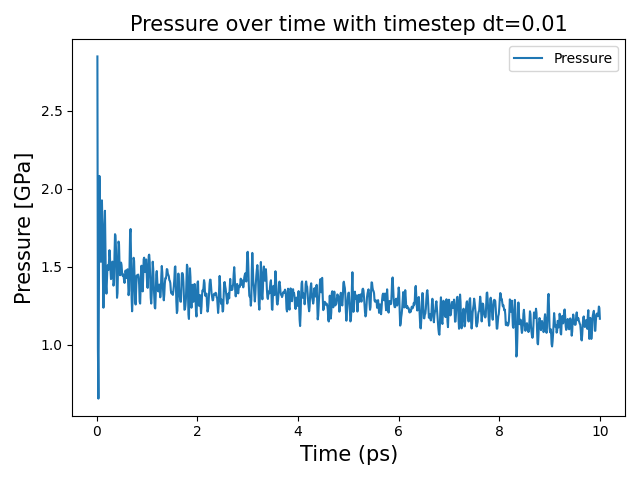
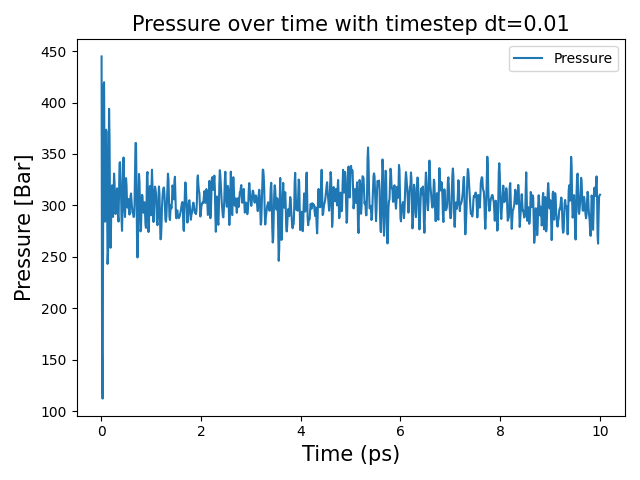
upd

diff --git a/H1/python/plot_energy.py b/H1/python/plot_energy.py
@@ -42,7 +42,7 @@ plt.savefig(f'../Energy_plots/plot_T_dt{dt}_{str}.png')
 fig3 , axP = plt.subplots(1,1)
 axP.plot(t, press, label='Pressure')
 axP.set_xlabel('Time (ps)', fontsize = 15)
-axP.set_ylabel('Pressure [GPa]', fontsize = 15)
+axP.set_ylabel('Pressure [Bar]', fontsize = 15)
 axP.set_title(f'Pressure over time with timestep dt={dt}', fontsize = 15)
 plt.legend(fontsize=10)
 plt.tight_layout()

diff --git a/H1/python/plot_press.py b/H1/python/plot_press.py
@@ -16,7 +16,7 @@ print(dt)
 fig3 , axP = plt.subplots(1,1)
 axP.plot(t, press, label='Pressure')
 axP.set_xlabel('Time (ps)', fontsize = 15)
-axP.set_ylabel('Pressure [GPa]', fontsize = 15)
+axP.set_ylabel('Pressure [Bar]', fontsize = 15)
 axP.set_title(f'Pressure over time with timestep dt={dt}, tau50', fontsize = 15)
 plt.legend(fontsize=10)
 plt.tight_layout()
